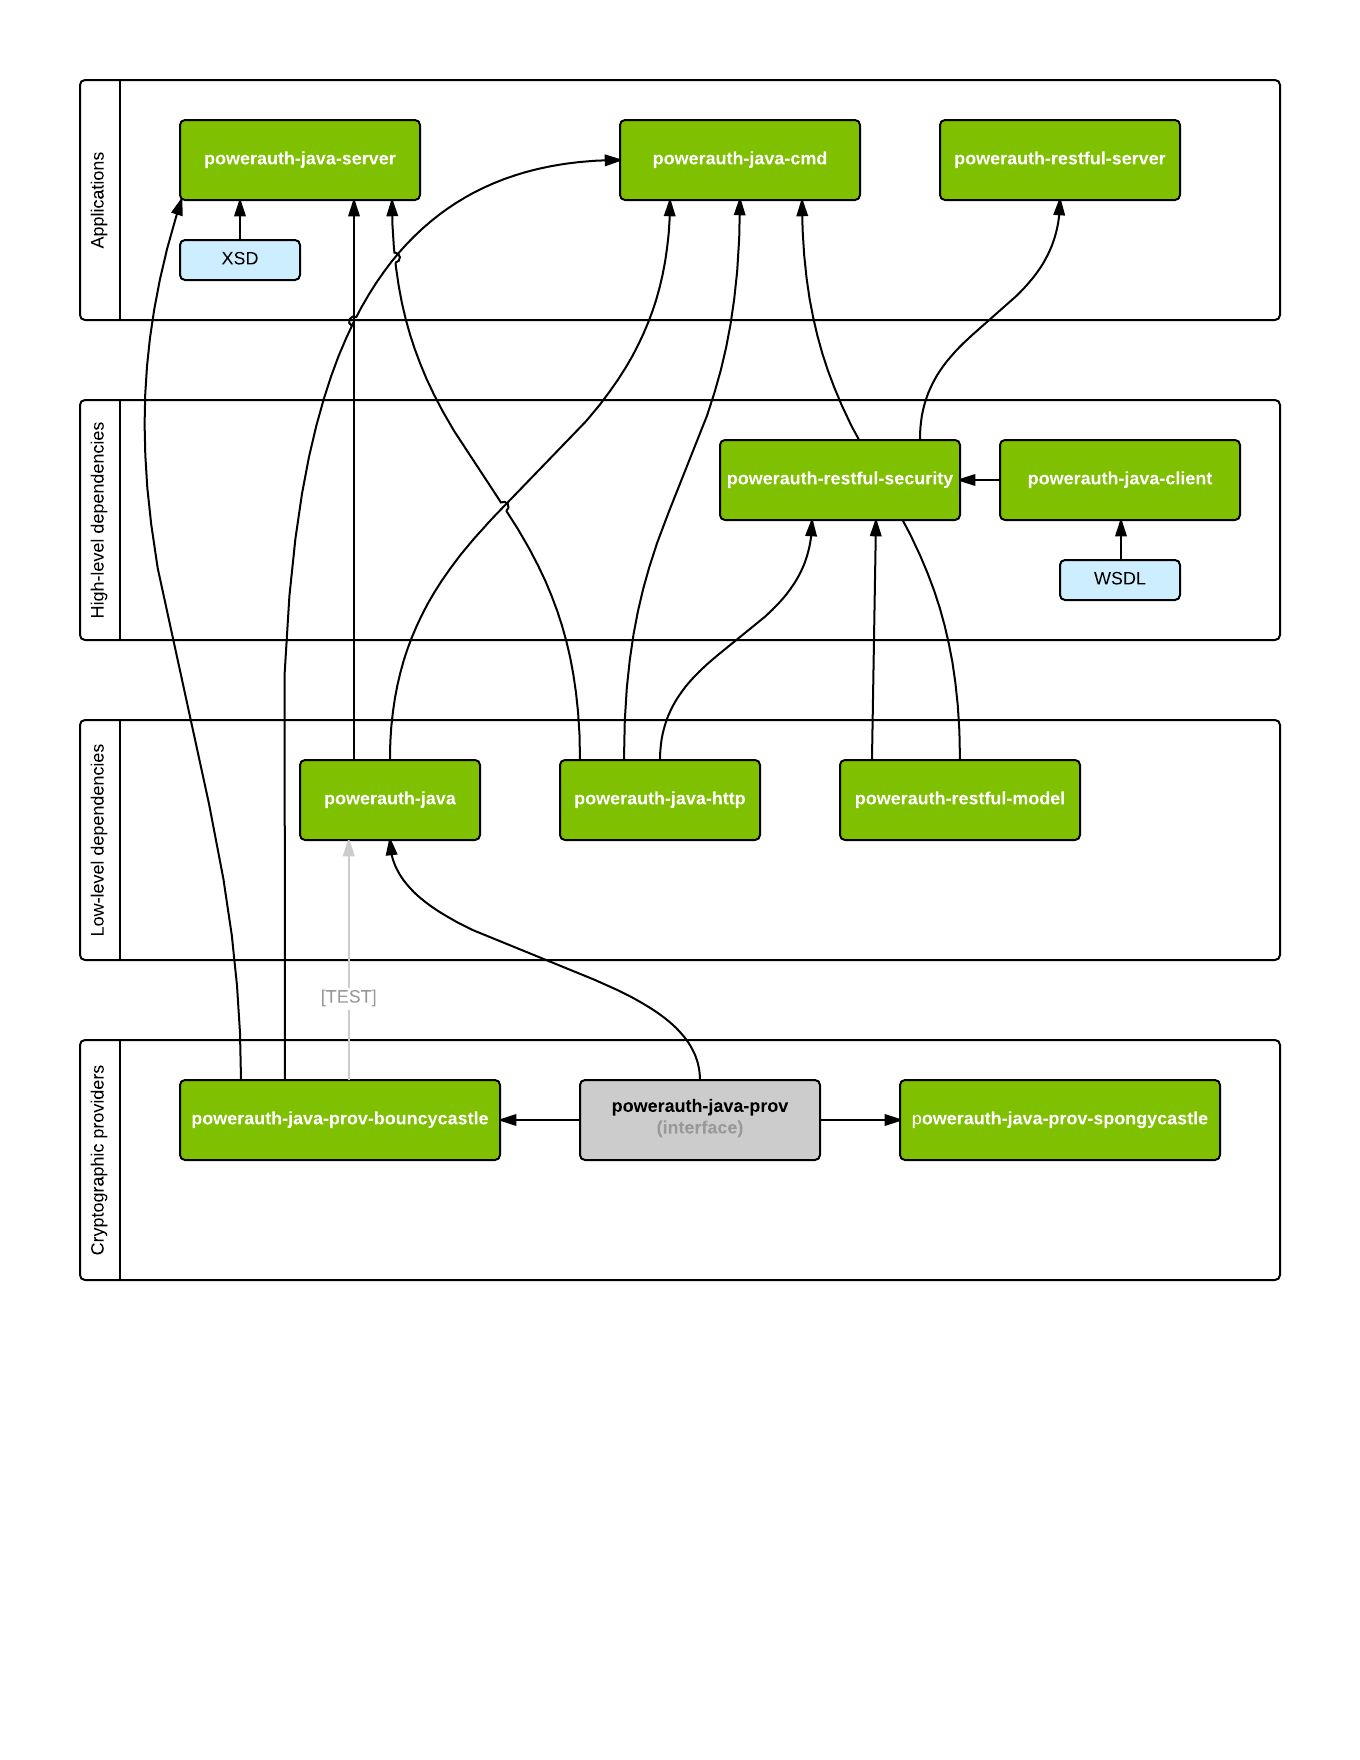
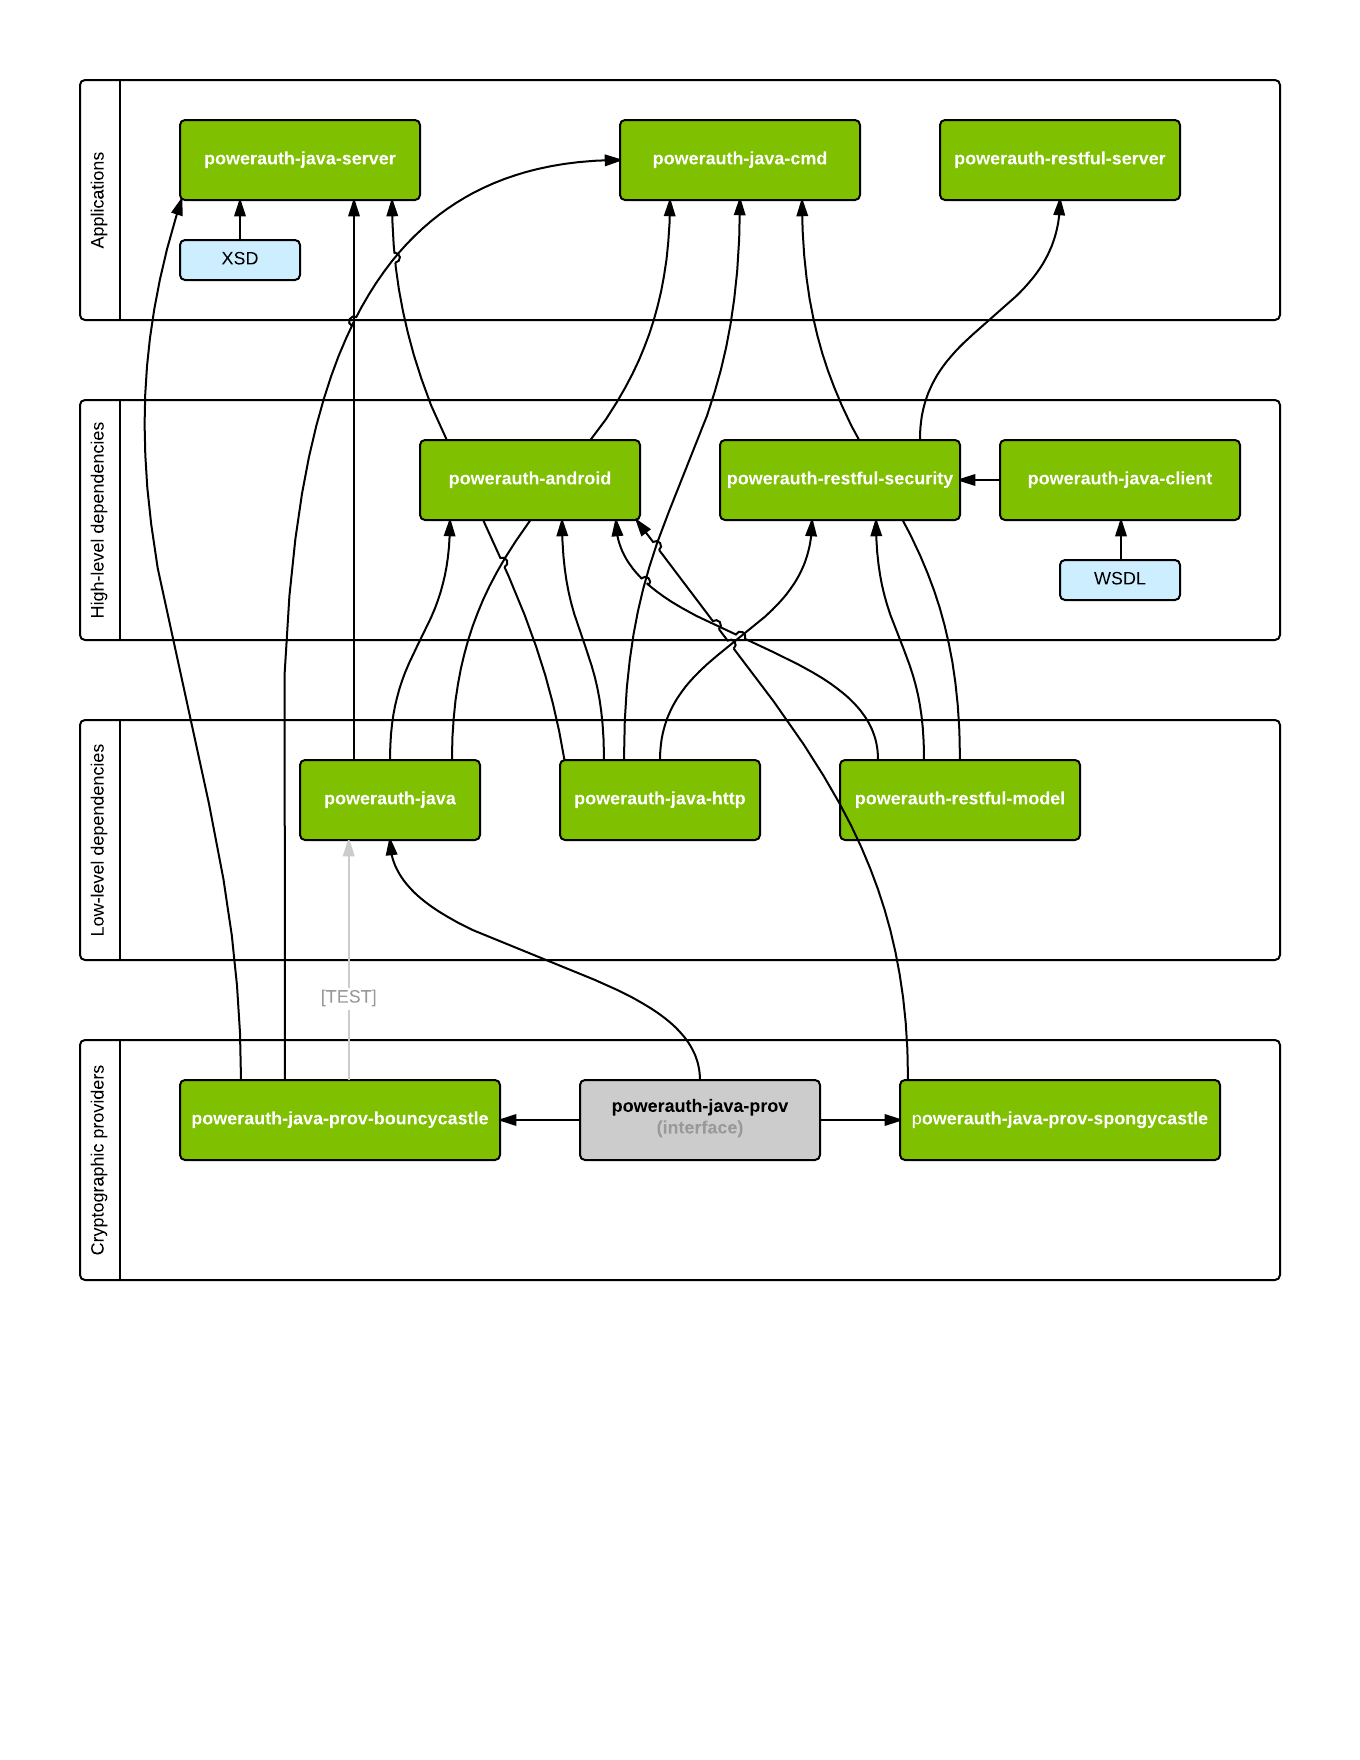
Fixed documentation of Maven modules

diff --git a/powerauth-docs/source/maven-modules.md b/powerauth-docs/source/maven-modules.md
@@ -10,6 +10,7 @@ PowerAuth 2.0 source code includes following Maven modules under a single parent
 - `powerauth-java-client` - A simple SOAP service client class module capable of connecting to a running instance of PowerAuth 2.0 Server. This module is typically used to integrate with Master Front-End Application APIs, such as with internet banking application.
 - `powerauth-java-cmd` - A command-line utility implementing a reference PowerAuth 2.0 Client.
 - `powerauth-java-server` - A server application implementing a PowerAuth 2.0 Server. It is responsible for publishing PowerAuth 2.0 Server SOAP methods and RESTful API, and also for persistence of the data in a database.
+- `powerauth-android` - Module for implementing Android support of PowerAuth 2.0 protocol (for implementing the PowerAuth 2.0 Client).
 - `powerauth-restful-model` - A simple module with the RESTful API model classes for PowerAuth 2.0 Standard RESTful API requests and responses.
 - `powerauth-restful-security` - A module used to integrate PowerAuth 2.0 protocol in RESTful APIs. It includes PowerAuth 2.0 Standard RESTful API controllers (and therefore publishes related endpoints), `PowerAuthAuthenticationProvider` that can be used to verify signatures, utilities for correct configuration, etc. This module is typically used to integrate with Intermediate Server Application, such as mobile banking APIs.
 - `powerauth-restful-server` - A simple implementation of the RESTful API publishing the PowerAuth 2.0 Standart RESTful API.
